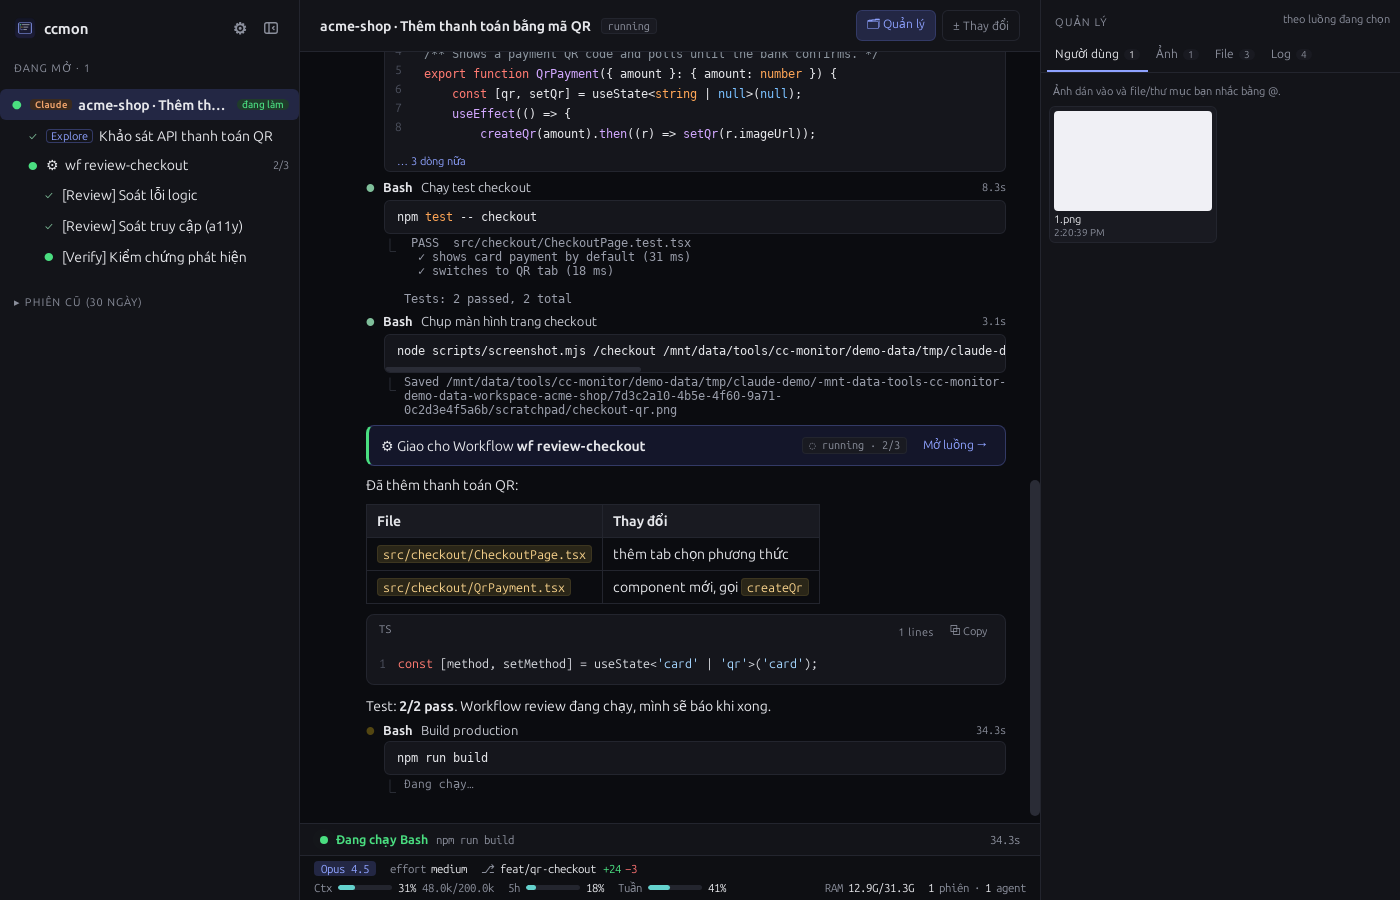
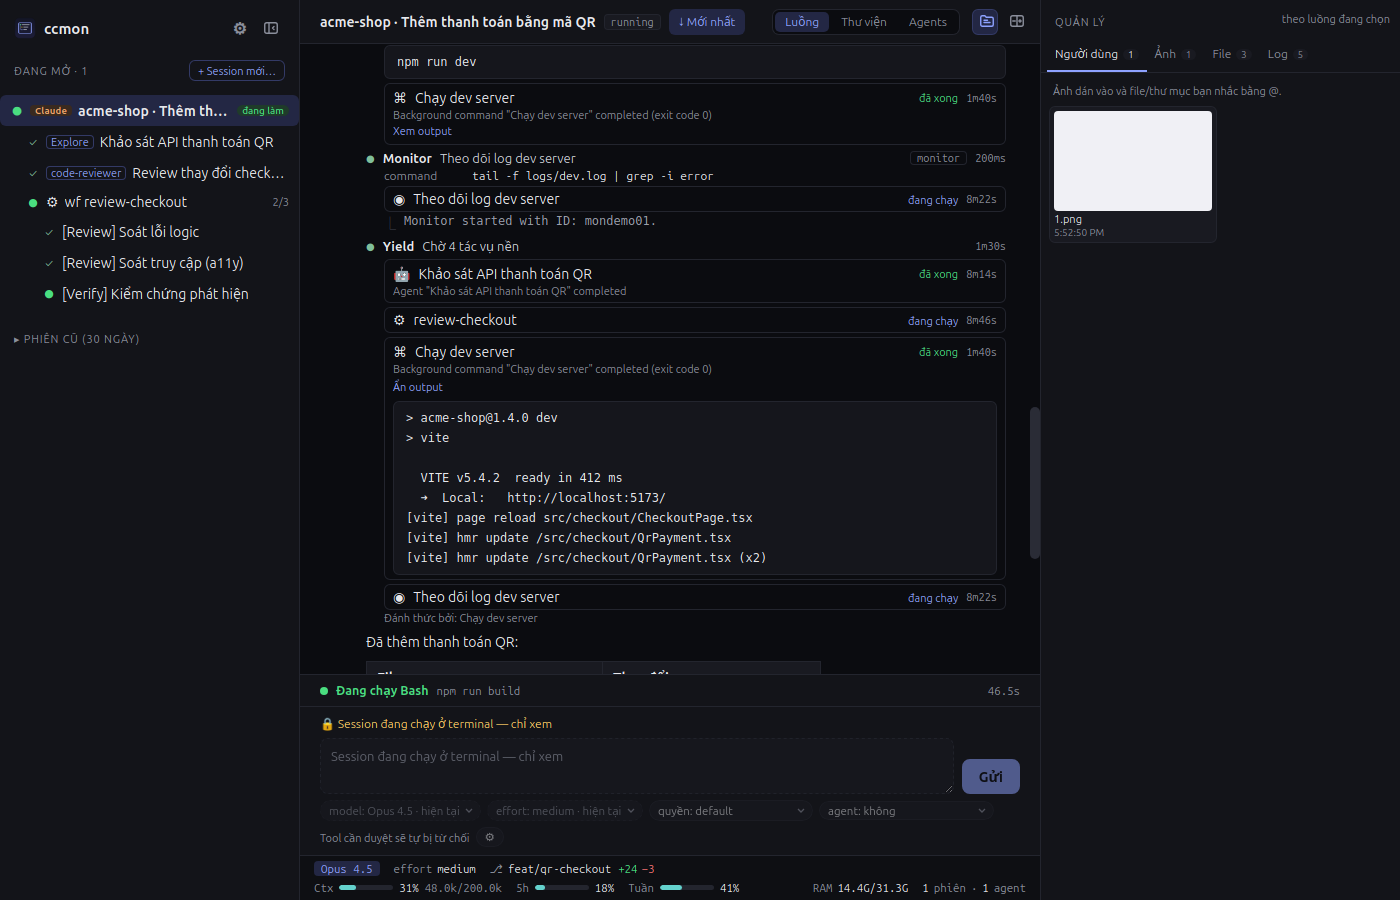
website: control center features, new screenshots, cc-monitor.online

diff --git a/website/index.html b/website/index.html
@@ -4,10 +4,14 @@
   <meta charset="utf-8" />
   <meta name="viewport" content="width=device-width, initial-scale=1" />
   <title>ccmon — See what your AI coding agent is doing</title>
-  <meta name="description" content="ccmon is a free, open-source desktop app that shows Claude Code sessions live: every prompt, tool call, sub-agent, workflow, file change and plan limit. Local and read-only." />
+  <meta name="description" content="ccmon is a free, open-source desktop app that shows Claude Code sessions live — every prompt, tool call, sub-agent, workflow, background task and file change — and lets you run sessions and manage skills, plugins, MCP servers, agents and workflows. Local, no telemetry." />
+  <link rel="canonical" href="https://cc-monitor.online/" />
+  <meta property="og:type" content="website" />
+  <meta property="og:url" content="https://cc-monitor.online/" />
   <meta property="og:title" content="ccmon — See what your AI coding agent is doing" />
-  <meta property="og:description" content="Live monitor for Claude Code: timeline, sub-agents, workflows, side-by-side diffs, plan usage. Local, read-only, MIT." />
-  <meta property="og:image" content="assets/screen-main.png" />
+  <meta property="og:description" content="Live monitor and control center for Claude Code: timeline, sub-agents, background tasks, diffs, plan usage, plus skills, plugins, MCP servers, agents and workflows per session. Local, MIT." />
+  <meta property="og:image" content="https://cc-monitor.online/assets/screen-main.png" />
+  <meta name="twitter:card" content="summary_large_image" />
   <link rel="icon" href="assets/favicon.png" />
   <link rel="preconnect" href="https://fonts.googleapis.com" />
   <link rel="preconnect" href="https://fonts.gstatic.com" crossorigin />
@@ -79,6 +83,14 @@
     .checks li { padding-left: 28px; position: relative; margin: 10px 0; color: #c9ccd6; }
     .checks li::before { content: "✓"; position: absolute; left: 0; color: var(--green); font-weight: 700; }
 
+    .duo { display: grid; grid-template-columns: 1fr 1fr; gap: 20px; margin-top: 40px; }
+    .duo figure { margin: 0; }
+    .duo .shot { margin: 0; box-shadow: 0 30px 80px -30px rgba(0,0,0,.7); }
+    .duo figcaption { margin-top: 12px; color: var(--muted); font-size: 14.5px; }
+    .duo figcaption b { color: var(--text); font-weight: 600; }
+    .notes { list-style: none; padding: 0; margin: 18px 0 0; font-size: 14px; color: var(--muted); }
+    .notes li { padding-left: 22px; position: relative; margin: 8px 0; }
+    .notes li::before { content: "!"; position: absolute; left: 0; top: 1px; width: 15px; height: 15px; border-radius: 50%; background: #3a2a1f; color: var(--claude); font-size: 11px; font-weight: 700; display: grid; place-items: center; }
     .steps { display: grid; grid-template-columns: repeat(3, 1fr); gap: 16px; margin-top: 36px; counter-reset: s; }
     .step { border-left: 2px solid #2b2f48; padding: 4px 0 4px 18px; }
     .step::before { counter-increment: s; content: counter(s); display: inline-grid; place-items: center; width: 26px; height: 26px; border-radius: 50%; background: #232744; color: var(--accent); font-weight: 700; font-size: 13px; margin-bottom: 8px; }
@@ -107,7 +119,7 @@
 
     @media (max-width: 900px) {
       .grid, .steps { grid-template-columns: 1fr 1fr; }
-      .split, .split.rev { grid-template-columns: 1fr; }
+      .split, .split.rev, .duo { grid-template-columns: 1fr; }
       .split.rev .shot { order: 2; }
       nav .links a.hide-sm { display: none; }
     }
@@ -124,6 +136,7 @@
       <a class="logo" href="#"><img src="assets/logo.png" alt="" /> ccmon</a>
       <div class="links">
         <a class="hide-sm" href="#features" data-i18n="nav.features">Features</a>
+        <a class="hide-sm" href="#control" data-i18n="nav.control">Control center</a>
         <a class="hide-sm" href="#install" data-i18n="nav.install">Install</a>
         <a class="hide-sm" href="#faq">FAQ</a>
         <a href="https://github.com/wik1ngst-1103/cc-monitor">GitHub</a>
@@ -136,7 +149,7 @@
     <div class="wrap">
       <span class="badge"><b>●</b> <span data-i18n="hero.badge">Free &amp; open source · MIT · Windows &amp; Linux</span></span>
       <h1><span data-i18n="hero.t1">See what your</span> <span class="grad" data-i18n="hero.t2">AI coding agent</span> <span data-i18n="hero.t3">is doing — live.</span></h1>
-      <p class="sub" data-i18n="hero.sub">ccmon turns Claude Code sessions into a clean, real-time view: every prompt, command, file edit, sub-agent and workflow, with side-by-side diffs and plan usage. It only reads what the agents already save on your machine.</p>
+      <p class="sub" data-i18n="hero.sub">ccmon turns Claude Code sessions into a clean, real-time view: every prompt, command, file edit, sub-agent, workflow and background task, with side-by-side diffs and plan usage. Run sessions from it and manage skills, plugins, MCP servers, agents and workflows per session.</p>
       <div class="cta">
         <a class="btn btn-primary dl" id="dl-win" href="https://github.com/wik1ngst-1103/cc-monitor/releases/latest">
           <svg viewBox="0 0 24 24" fill="none" stroke="currentColor" stroke-width="2.2"><path d="M12 3v12m0 0l-5-5m5 5l5-5M4 21h16"/></svg>
@@ -153,7 +166,7 @@
       </div>
       <div class="tools"><span data-i18n="hero.works">Works with</span> <span class="tag claude">Claude Code</span></div>
       <div class="dl-other" id="dl-other"></div>
-      <div class="shot"><div class="bar"><i></i><i></i><i></i></div><img src="assets/screen-main.png" alt="ccmon main window: session tree, chat timeline with tool cards, file sidebar and status bar" /></div>
+      <div class="shot"><div class="bar"><i></i><i></i><i></i></div><img src="assets/screen-main.png" alt="ccmon main window: session tree, timeline with a Yield card listing the background tasks it waits on, composer and status bar" /></div>
     </div>
   </header>
 
@@ -168,8 +181,45 @@
         <div class="card"><div class="ic">±</div><h3 data-i18n="f3.t">Side-by-side diffs</h3><p data-i18n="f3.d">Every file the session changed, compared with how it was before the session (or with git HEAD), in two aligned columns.</p></div>
         <div class="card"><div class="ic">🗂</div><h3 data-i18n="f4.t">Files, images &amp; logs</h3><p data-i18n="f4.d">Images you pasted, screenshots the agent took, files it read or wrote, scratchpad output and a ✓/✗ command log — with previews and Markdown rendering.</p></div>
         <div class="card"><div class="ic">📊</div><h3 data-i18n="f5.t">Plan usage at a glance</h3><p data-i18n="f5.d">Model, context used, 5-hour and weekly limits, effort, git branch and lines changed in a compact status bar.</p></div>
-        <div class="card"><div class="ic">🔒</div><h3 data-i18n="f6.t">Local &amp; read-only</h3><p data-i18n="f6.d">No account, no network calls, no telemetry. ccmon reads the transcripts your agents already write and never changes them.</p></div>
+        <div class="card"><div class="ic">⏳</div><h3 data-i18n="f7.t">Background tasks in detail</h3><p data-i18n="f7.d">A Yield card lists what the agent is waiting on — shells, monitors, sub-agents, workflows — with live state and which one woke it. Background Bash and Monitor show status and a live output tail.</p></div>
+        <div class="card"><div class="ic">📚</div><h3 data-i18n="f8.t">Library</h3><p data-i18n="f8.d">Skills, plugins and MCP servers found on disk or announced by the session, with “used ×n” or “available” for the selected session and a per-session switch.</p></div>
+        <div class="card"><div class="ic">🤖</div><h3 data-i18n="f9.t">Agents &amp; workflows</h3><p data-i18n="f9.d">Built-in, plugin, user and project agents and workflows in one list. Create or edit your own agents, disable one in ccmon without losing files or run history, open past runs.</p></div>
+        <div class="card"><div class="ic">💬</div><h3 data-i18n="f10.t">Run sessions from ccmon</h3><p data-i18n="f10.d">Type a prompt to continue a session or start a new one. Pick model, effort, permission mode and main agent; mention agents with <code>@</code>.</p></div>
+        <div class="card"><div class="ic">🧭</div><h3 data-i18n="f11.t">Compact header</h3><p data-i18n="f11.d">One slim bar with a Thread / Library / Agents switch (<code>Ctrl+1/2/3</code>), so the timeline keeps the space.</p></div>
+        <div class="card"><div class="ic">▶</div><h3 data-i18n="f12.t">What it's doing now</h3><p data-i18n="f12.d">A live line under the timeline: which tool is running, waiting on an agent, thinking, replying or waiting for you — with elapsed time.</p></div>
+        <div class="card"><div class="ic">🔒</div><h3 data-i18n="f6.t">Local, no telemetry</h3><p data-i18n="f6.d">No account, no network calls of its own, no telemetry. Read-only unless you run a session from ccmon or save an agent; transcripts are never changed.</p></div>
       </div>
+    </div>
+  </section>
+
+  <section id="control">
+    <div class="wrap split rev">
+      <div class="shot"><div class="bar"><i></i><i></i><i></i></div><img src="assets/screen-composer.png" alt="Composer with a highlighted @Explore mention, model, effort, permission and agent chips, and the per-session capability drawer" loading="lazy" /></div>
+      <div>
+        <div class="eyebrow" data-i18n="c.eyebrow">Control center</div>
+        <h2 data-i18n="c.title">Steer the session, not just watch it</h2>
+        <p class="lead" data-i18n="c.lead">The composer under the timeline runs the <code>claude</code> you already have. Every choice applies from the next turn through Claude Code's own CLI flags.</p>
+        <ul class="checks">
+          <li data-i18n="c.c1">Model, effort, permission mode and main agent as chips</li>
+          <li data-i18n="c.c2">Turn skills, plugins, MCP servers, agents and workflows off for one session — your settings.json is never edited</li>
+          <li data-i18n="c.c3"><code>@agent</code> mentions are highlighted and listed under the prompt</li>
+        </ul>
+        <ul class="notes">
+          <li data-i18n="c.n1">Sessions open in a terminal stay view-only; ccmon never takes them over.</li>
+          <li data-i18n="c.n2">In sessions run from ccmon there is no approval dialog: tools that need approval are denied unless you pick a more permissive mode.</li>
+          <li data-i18n="c.n3">Disabled skills and agents are blocked when called, but the model still sees them listed.</li>
+        </ul>
+      </div>
+    </div>
+    <div class="wrap duo">
+      <figure>
+        <div class="shot"><div class="bar"><i></i><i></i><i></i></div><img src="assets/screen-library.png" alt="Library page: skills with scope, global state, per-session usage and switches" loading="lazy" /></div>
+        <figcaption data-i18n="c.lib"><b>Library</b> — what is installed, what the session was offered and what it actually used.</figcaption>
+      </figure>
+      <figure>
+        <div class="shot"><div class="bar"><i></i><i></i><i></i></div><img src="assets/screen-agents.png" alt="Agents page: agent list by source, details with tools and model, prompt and run history" loading="lazy" /></div>
+        <figcaption data-i18n="c.ag"><b>Agents</b> — edit your own agents, switch one off in ccmon, reopen any past run.</figcaption>
+      </figure>
     </div>
   </section>
 
@@ -185,13 +235,13 @@
           <li data-i18n="d.c3">Unchanged regions folded, syntax highlighted</li>
         </ul>
       </div>
-      <div class="shot"><div class="bar"><i></i><i></i><i></i></div><img src="assets/screen-diff.png" alt="Side-by-side diff view" /></div>
+      <div class="shot"><div class="bar"><i></i><i></i><i></i></div><img src="assets/screen-diff.png" alt="Side-by-side diff view" loading="lazy" /></div>
     </div>
   </section>
 
   <section>
     <div class="wrap split rev">
-      <div class="shot"><div class="bar"><i></i><i></i><i></i></div><img src="assets/screen-setup.png" alt="First-run setup for Claude Code" /></div>
+      <div class="shot"><div class="bar"><i></i><i></i><i></i></div><img src="assets/screen-setup.png" alt="First-run setup for Claude Code" loading="lazy" /></div>
       <div>
         <div class="eyebrow" data-i18n="s.eyebrow">One-click setup</div>
         <h2 data-i18n="s.title">Point it at Claude Code and go</h2>
@@ -212,7 +262,7 @@
       <div class="steps">
         <div class="step"><h3 data-i18n="h1.t">Keep using your agent</h3><p data-i18n="h1.d">Run Claude Code in the terminal or your editor, exactly as today.</p></div>
         <div class="step"><h3 data-i18n="h2.t">ccmon reads the transcript</h3><p data-i18n="h2.d">It tails <code>~/.claude/projects</code> (about 0.4 s latency) and builds the thread tree.</p></div>
-        <div class="step"><h3 data-i18n="h3.t">Watch, review, follow up</h3><p data-i18n="h3.d">See each step as it happens, open sub-agents, review diffs and files, then go back to your agent.</p></div>
+        <div class="step"><h3 data-i18n="h3.t">Watch, review, follow up</h3><p data-i18n="h3.d">See each step as it happens, open sub-agents, review diffs and files, then reply from ccmon or go back to your terminal.</p></div>
       </div>
     </div>
   </section>
@@ -252,8 +302,8 @@ cargo run --release -p cc-monitor   # terminal UI</code></pre>
       <div class="eyebrow">FAQ</div>
       <h2 data-i18n="q.title">Questions</h2>
       <details><summary data-i18n="q1.q">Is ccmon made by Anthropic?</summary><p data-i18n="q1.a">No. ccmon is an independent community project. Claude Code is a product of Anthropic; ccmon is not affiliated with or endorsed by Anthropic.</p></details>
-      <details><summary data-i18n="q2.q">Does it send my code or prompts anywhere?</summary><p data-i18n="q2.a">No. Everything stays on your machine. ccmon makes no network requests and has no telemetry.</p></details>
-      <details><summary data-i18n="q3.q">Can it change my sessions or settings?</summary><p data-i18n="q3.a">It only reads. The single exception is opt-in: wrapping Claude Code's status line to read plan usage, which backs up settings.json and can be undone from Settings.</p></details>
+      <details><summary data-i18n="q2.q">Does it send my code or prompts anywhere?</summary><p data-i18n="q2.a">No. ccmon itself makes no network requests and has no telemetry. Sessions you run from ccmon are ordinary Claude Code sessions, using your own <code>claude</code> install.</p></details>
+      <details><summary data-i18n="q3.q">Can it change my sessions or settings?</summary><p data-i18n="q3.a">Only when you ask it to. Watching is read-only. ccmon writes its own state (per-session switches, disabled agents) in its config folder, agent files you save from the Agents page after confirming, and — opt-in — a status-line wrapper for plan usage that backs up settings.json and can be undone. Per-session switches use launch flags; settings.json, skill, plugin and MCP files are never edited.</p></details>
       <details><summary data-i18n="q4.q">Why can't I see the model's full thinking?</summary><p data-i18n="q4.a">Claude Code stores reasoning encrypted or omits it from transcripts. ccmon shows what is saved: short progress notes and thinking time.</p></details>
       <details><summary data-i18n="q5.q">Can I use it commercially or modify it?</summary><p data-i18n="q5.a">Yes — MIT license. To change the code, please fork the repository and open a pull request, or report problems as issues.</p></details>
     </div>
@@ -269,10 +319,10 @@ cargo run --release -p cc-monitor   # terminal UI</code></pre>
 
   <script>
     const VI = {
-      'nav.features': 'Tính năng', 'nav.install': 'Cài đặt',
+      'nav.features': 'Tính năng', 'nav.install': 'Cài đặt', 'nav.control': 'Điều khiển',
       'hero.badge': 'Miễn phí & mã nguồn mở · MIT · Windows & Linux',
       'hero.t1': 'Xem', 'hero.t2': 'AI coding agent', 'hero.t3': 'đang làm gì — theo thời gian thực.',
-      'hero.sub': 'ccmon biến các phiên Claude Code thành một màn hình gọn gàng, cập nhật trực tiếp: từng prompt, lệnh, file đã sửa, subagent và workflow, kèm diff hai cột và hạn mức gói. Ứng dụng chỉ đọc những gì agent đã tự lưu trên máy bạn.',
+      'hero.sub': 'ccmon biến các phiên Claude Code thành một màn hình gọn gàng, cập nhật trực tiếp: từng prompt, lệnh, file đã sửa, subagent, workflow và tác vụ nền, kèm diff hai cột và hạn mức gói. Chạy session ngay trong ccmon và quản lý skill, plugin, MCP server, agent, workflow cho từng session.',
       'hero.download': 'Tải về', 'hero.star': 'Star trên GitHub', 'hero.works': 'Hỗ trợ',
       'f.eyebrow': 'Tính năng', 'f.title': 'Mọi việc agent làm, trong một cửa sổ',
       'f.lead': 'Thôi cuộn terminal để đoán chuyện gì đã xảy ra. ccmon theo dõi phiên chính và mọi agent nó tạo ra, ngay khi chúng làm việc.',
@@ -281,7 +331,23 @@ cargo run --release -p cc-monitor   # terminal UI</code></pre>
       'f3.t': 'Diff hai cột', 'f3.d': 'Mọi file phiên đã sửa, so với trước phiên (hoặc với git HEAD), hiển thị hai cột thẳng hàng.',
       'f4.t': 'File, ảnh & log', 'f4.d': 'Ảnh bạn dán vào, ảnh chụp agent tạo, file đã đọc/ghi, thư mục nháp và log lệnh ✓/✗ — có xem trước và render Markdown.',
       'f5.t': 'Hạn mức trong nháy mắt', 'f5.d': 'Model, context đã dùng, hạn mức 5 giờ và tuần, effort, nhánh git và số dòng thay đổi trong một thanh trạng thái gọn.',
-      'f6.t': 'Cục bộ & chỉ đọc', 'f6.d': 'Không tài khoản, không gọi mạng, không telemetry. ccmon đọc transcript mà agent đã ghi và không bao giờ sửa chúng.',
+      'f6.t': 'Cục bộ, không telemetry', 'f6.d': 'Không tài khoản, ccmon không tự gọi mạng, không telemetry. Chỉ đọc, trừ khi bạn chạy session từ ccmon hoặc lưu một agent; transcript không bao giờ bị sửa.',
+      'f7.t': 'Tác vụ nền chi tiết', 'f7.d': 'Thẻ Yield liệt kê agent đang chờ gì — shell, monitor, subagent, workflow — với trạng thái trực tiếp và tác vụ nào đã đánh thức nó. Bash và Monitor chạy nền hiện trạng thái và phần cuối output trực tiếp.',
+      'f8.t': 'Thư viện', 'f8.d': 'Skill, plugin và MCP server có trên đĩa hoặc được session công bố, kèm “đã dùng ×n” hay “khả dụng” cho session đang chọn và công tắc bật/tắt theo session.',
+      'f9.t': 'Agents & workflow', 'f9.d': 'Agent và workflow có sẵn, của plugin, người dùng và dự án trong một danh sách. Tạo hoặc sửa agent của bạn, tắt một agent trong ccmon mà không mất file hay lịch sử chạy, mở lại các lượt đã chạy.',
+      'f10.t': 'Chạy session từ ccmon', 'f10.d': 'Gõ prompt để tiếp tục một session hoặc mở session mới. Chọn model, effort, chế độ quyền và agent chính; nhắc agent bằng <code>@</code>.',
+      'f11.t': 'Header gọn', 'f11.d': 'Một thanh mảnh với nút chuyển Luồng / Thư viện / Agents (<code>Ctrl+1/2/3</code>), nhường chỗ cho timeline.',
+      'f12.t': 'Đang làm gì', 'f12.d': 'Một dòng trực tiếp dưới timeline: đang chạy tool nào, chờ agent con, suy nghĩ, trả lời hay đang chờ bạn — kèm thời gian đã trôi.',
+      'c.eyebrow': 'Trung tâm điều khiển', 'c.title': 'Lái session, không chỉ ngồi xem',
+      'c.lead': 'Ô soạn dưới timeline chạy chính lệnh <code>claude</code> trên máy bạn. Mọi lựa chọn áp dụng từ lượt sau qua cờ CLI của Claude Code.',
+      'c.c1': 'Model, effort, chế độ quyền và agent chính dưới dạng chip',
+      'c.c2': 'Tắt skill, plugin, MCP server, agent, workflow cho riêng một session — settings.json của bạn không bị sửa',
+      'c.c3': 'Nhắc <code>@agent</code> được tô sáng và liệt kê dưới prompt',
+      'c.n1': 'Session đang mở ở terminal chỉ xem; ccmon không bao giờ tiếp quản.',
+      'c.n2': 'Session chạy từ ccmon không có hộp thoại duyệt: tool cần duyệt sẽ bị từ chối, trừ khi bạn chọn chế độ quyền thoáng hơn.',
+      'c.n3': 'Skill và agent bị tắt sẽ bị chặn khi gọi, nhưng model vẫn thấy chúng trong danh sách.',
+      'c.lib': '<b>Thư viện</b> — cái gì đã cài, session được cung cấp gì và thực sự đã dùng gì.',
+      'c.ag': '<b>Agents</b> — sửa agent của bạn, tắt một agent trong ccmon, mở lại bất kỳ lượt chạy nào.',
       'd.eyebrow': 'Xem thay đổi', 'd.title': 'Chính xác đã sửa những gì?', 'd.lead': 'Mở “Thay đổi” để xem mọi file phiên đã đụng vào và so sánh từng file hai cột.',
       'd.c1': 'Bản gốc “trước phiên” lấy từ bản sao lưu file của chính Claude Code — không cần git',
       'd.c2': 'Chuyển sang so với git HEAD khi file nằm trong repo', 'd.c3': 'Gấp đoạn không đổi, tô màu cú pháp',
@@ -292,7 +358,7 @@ cargo run --release -p cc-monitor   # terminal UI</code></pre>
       'h.eyebrow': 'Cách hoạt động', 'h.title': 'Không phải đổi cách bạn làm việc',
       'h1.t': 'Dùng agent như thường', 'h1.d': 'Chạy Claude Code trong terminal hay editor, y như hiện tại.',
       'h2.t': 'ccmon đọc transcript', 'h2.d': 'Theo dõi <code>~/.claude/projects</code> (trễ khoảng 0,4 giây) và dựng cây luồng.',
-      'h3.t': 'Theo dõi, xem lại, làm tiếp', 'h3.d': 'Xem từng bước khi nó diễn ra, mở subagent, xem diff và file, rồi quay lại agent.',
+      'h3.t': 'Theo dõi, xem lại, làm tiếp', 'h3.d': 'Xem từng bước khi nó diễn ra, mở subagent, xem diff và file, rồi trả lời ngay trong ccmon hoặc quay lại terminal.',
       'i.eyebrow': 'Cài đặt', 'i.title': 'Tải về và chạy', 'i.lead': 'Bộ cài được GitHub Actions build cho mỗi bản phát hành.', 'i.src': 'Từ mã nguồn',
       'i.w1': 'Tải <code>ccmon_x.y.z_x64-setup.exe</code> ở bản phát hành mới nhất.',
       'i.w2': 'Chạy file — cài cho riêng tài khoản của bạn, không cần quyền admin. WebView2 tự cài nếu máy chưa có.',
@@ -300,8 +366,8 @@ cargo run --release -p cc-monitor   # terminal UI</code></pre>
       'i.l1': 'Tải <code>ccmon_x.y.z_amd64.deb</code> ở bản phát hành mới nhất (Debian, Ubuntu và các bản dựa trên chúng).', 'i.l2': 'Cài đặt rồi mở <b>ccmon</b> từ menu ứng dụng:',
       'q.title': 'Câu hỏi thường gặp',
       'q1.q': 'ccmon có phải của Anthropic không?', 'q1.a': 'Không. ccmon là dự án cộng đồng độc lập. Claude Code là sản phẩm của Anthropic; ccmon không liên kết và không được Anthropic bảo trợ.',
-      'q2.q': 'Ứng dụng có gửi code hay prompt của tôi đi đâu không?', 'q2.a': 'Không. Mọi thứ ở lại trên máy bạn. ccmon không gọi mạng và không có telemetry.',
-      'q3.q': 'Nó có sửa phiên hay cài đặt của tôi không?', 'q3.a': 'Chỉ đọc. Ngoại lệ duy nhất là tuỳ chọn: bọc status line của Claude Code để đọc hạn mức — có sao lưu settings.json và gỡ được trong Cài đặt.',
+      'q2.q': 'Ứng dụng có gửi code hay prompt của tôi đi đâu không?', 'q2.a': 'Không. Bản thân ccmon không gọi mạng và không có telemetry. Session bạn chạy từ ccmon là session Claude Code bình thường, dùng chính bản <code>claude</code> đã cài trên máy.',
+      'q3.q': 'Nó có sửa phiên hay cài đặt của tôi không?', 'q3.a': 'Chỉ khi bạn yêu cầu. Theo dõi thì chỉ đọc. ccmon ghi trạng thái riêng (công tắc theo session, agent đã tắt) trong thư mục cấu hình của nó, file agent bạn lưu từ trang Agents sau khi xác nhận, và — nếu bạn chọn — bọc status line để đọc hạn mức, có sao lưu settings.json và gỡ được. Công tắc theo session dùng cờ khởi chạy; settings.json, file skill, plugin và MCP không bao giờ bị sửa.',
       'q4.q': 'Sao không xem được toàn bộ phần suy nghĩ của model?', 'q4.a': 'Claude Code lưu phần suy luận ở dạng mã hoá hoặc không lưu vào transcript. ccmon hiện những gì có: ghi chú tiến độ ngắn và thời gian suy nghĩ.',
       'q5.q': 'Tôi có được dùng thương mại hay sửa code không?', 'q5.a': 'Có — giấy phép MIT. Muốn sửa code, hãy fork repo và mở pull request, hoặc báo lỗi qua issue.',
       'foot.tm': 'Claude Code là thương hiệu của Anthropic. Không liên kết.', 'foot.issue': 'Báo lỗi'
